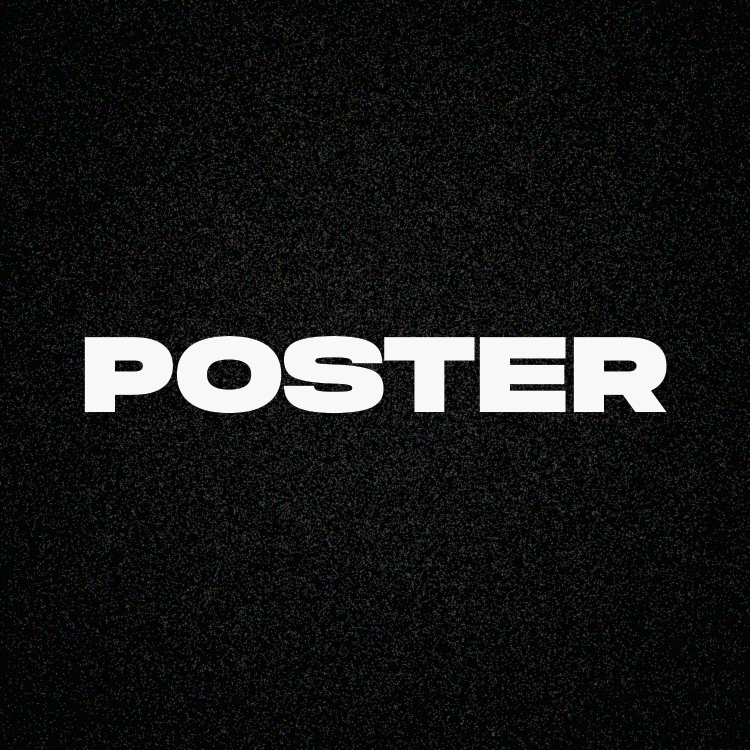
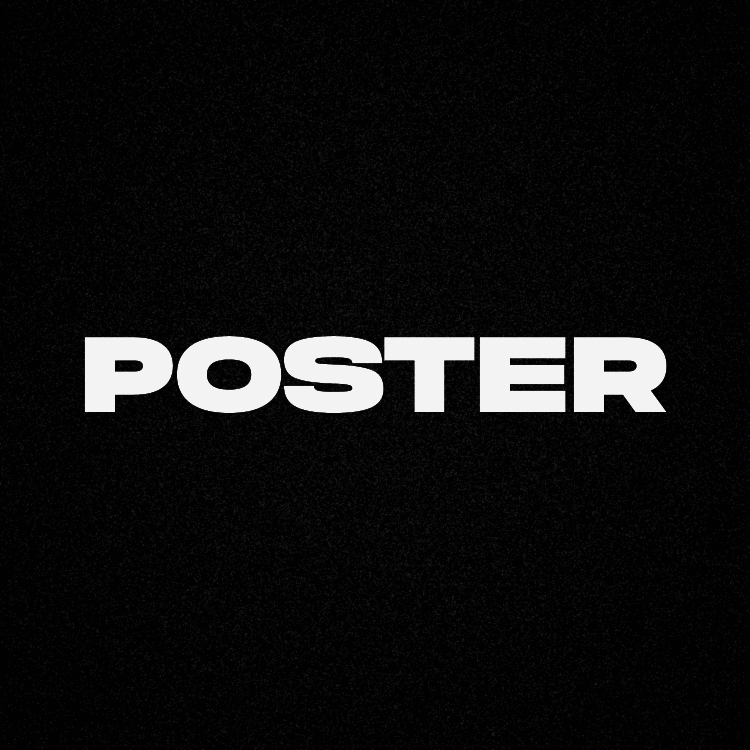
Refine branding size, double camera flash and About video framing

diff --git a/assets/css/brand-motion.css b/assets/css/brand-motion.css
@@ -2,7 +2,9 @@
 /* Animated identity, with stable navigation geometry. */
 @font-face { font-family:"Embolism Spark"; src:url("../fonts-web/embolism-spark.ttf") format("truetype"); font-weight:400; font-style:normal; font-display:swap; }
 .brand-logo { display:block; line-height:0; }
-body > header #anim-logo-h { width:134px; height:auto; scale:1; }
+.footer-identity .brand-logo img { width:120px; }
+@media(max-width:768px) { .footer-identity .brand-logo img { width:104px; } }
+body > header #anim-logo-h { width:112px; height:auto; scale:1; }
 body > header nav ul li a:has(.nav-label) { position:relative; }
 .nav-label { display:inline-block; transition:opacity .16s ease; }
 .nav-hover-label { position:absolute; left:50%; top:50%; transform:translate(-50%,-50%); width:max-content; pointer-events:none; opacity:0; font:400 25px/1 "Embolism Spark",cursive; text-transform:none; letter-spacing:0; transition:opacity .16s ease; }
@@ -10,7 +12,7 @@ body > header nav ul li a:has(.nav-label) { position:relative; }
  body > header nav ul li a:hover .nav-label { opacity:0; }
  body > header nav ul li a:hover .nav-hover-label { opacity:1; }
 }
-@media(max-width:768px) { body > header #anim-logo-h { width:116px; } }
+@media(max-width:768px) { body > header #anim-logo-h { width:96px; } }
 
 /* The camera light is entirely contained by the photograph's frame. */
 .hub-portrait-frame { display:block; position:relative; width:100%; height:100%; border-radius:22px; overflow:hidden; isolation:isolate; }
@@ -25,14 +27,21 @@ body > header nav ul li a:has(.nav-label) { position:relative; }
 .hub-links>a:nth-child(5) { --link-phase:-4.4s; }
 .hub-links>a:nth-child(6) { --link-phase:-5.5s; }
 @media(prefers-reduced-motion:no-preference) {
- .hub-profile-in-view .camera-flash { animation:camera-snap 6.8s ease-out infinite; }
+ .hub-profile-in-view .camera-flash { animation:camera-snap 1.5s linear infinite; }
  .hub-name-in-view .hub-name-accent { animation:hub-name-sheen 5s ease-in-out infinite,hub-heif-wiggle 3.6s ease-in-out infinite; transform-origin:50% 65%; }
  .hub-links-in-view>a::before { animation:hub-link-sweep 7s linear var(--link-phase,0s) infinite; }
  .hub-links-in-view>a>.ui-arrow,.hub-links-in-view .hub-featured-arrow .ui-arrow { animation:hub-arrow-flow 3.6s ease-in-out var(--link-phase,0s) infinite; }
  .hub-links-in-view .hub-icon { animation:hub-icon-float 4.5s ease-in-out var(--link-phase,0s) infinite; }
 }
 @keyframes hub-heif-wiggle { 0%,100%{transform:rotate(-2deg) translateY(0)} 25%{transform:rotate(1.5deg) translateY(-2px)} 50%{transform:rotate(-1deg) translateY(0)} 75%{transform:rotate(2deg) translateY(-1px)} }
-@keyframes camera-snap { 0%,76%,91%,100%{opacity:0;transform:translate(-50%,-50%) scale(.3)} 79%{opacity:.95;transform:translate(-50%,-50%) scale(.8)} 82%{opacity:.75;transform:translate(-50%,-50%) scale(1)} 90%{opacity:0;transform:translate(-50%,-50%) scale(1.2)} }
+@keyframes camera-snap {
+  0%,58%,100% { opacity:0; transform:translate(-50%,-50%) scale(.3); }
+  60% { opacity:.72; transform:translate(-50%,-50%) scale(.65); }
+  64%,68% { opacity:0; transform:translate(-50%,-50%) scale(.8); }
+  70% { opacity:1; transform:translate(-50%,-50%) scale(1); }
+  74% { opacity:.55; transform:translate(-50%,-50%) scale(1.1); }
+  86% { opacity:0; transform:translate(-50%,-50%) scale(1.3); }
+}
 @keyframes hub-link-sweep { from{transform:translateX(-130%)} to{transform:translateX(130%)} }
 @keyframes hub-arrow-flow { 0%,100%{transform:translate(0,0)} 50%{transform:translate(3px,-3px)} }
 @keyframes hub-icon-float { 0%,100%{transform:translateY(0)} 50%{transform:translateY(-2px)} }
@@ -44,8 +53,10 @@ body > header nav ul li a:has(.nav-label) { position:relative; }
 
 /* Never gate the page on videos or optional effects. CSS and JS both fail open. */
 .brand-loader { position:fixed; inset:0; z-index:100000; display:grid; place-items:center; background:#050906; opacity:0; visibility:hidden; pointer-events:none; transition:opacity .18s ease,visibility .18s; }
-.brand-loader picture { width:min(68vw,340px); display:block; }
+.brand-loader picture { width:min(42vw,200px); display:block; }
 .brand-loader img { display:block; width:100%; height:auto; }
 .brand-loading .brand-loader { opacity:1; visibility:visible; animation:brand-loader-timeout 1.8s step-end forwards; }
 @keyframes brand-loader-timeout { 0%{opacity:1;visibility:visible} 100%{opacity:0;visibility:hidden} }
 @media(prefers-reduced-motion:reduce) { .brand-loader { display:none; } }
+
+@media(max-width:768px) { .brand-loader picture { width:min(38vw,140px); } }

diff --git a/index.html b/index.html
@@ -41,7 +41,7 @@
   <link rel="canonical" href="https://heif.work/">
   <meta property="og:url" content="https://heif.work/">
   <link rel="stylesheet" href="assets/css/print.css?v=20261108-1" media="print">
-<link rel="stylesheet" href="assets/css/brand-motion.css?v=20261110-1">
+<link rel="stylesheet" href="assets/css/brand-motion.css?v=20261110-2">
 <link rel="preload" href="assets/fonts-web/embolism-spark.ttf" as="font" type="font/ttf" crossorigin>
 <script>document.documentElement.classList.add('brand-loading');setTimeout(function(){document.documentElement.classList.remove('brand-loading');},1800);</script>
 </head>
@@ -133,8 +133,8 @@
 
     <section class="portfolio-container mobile-pair-gallery" aria-label="Featured portfolio items">
       <div class="thumbnail">
-        <a href="work-detailposter.html"><img src="assets/optimized/category-poster-20261110-750.webp"
-            alt="Poster design portfolio showcase" loading="lazy" decoding="async" srcset="assets/optimized/category-poster-20261110-480.webp 480w, assets/optimized/category-poster-20261110-750.webp 750w" sizes="(max-width: 600px) 100vw, (max-width: 1024px) 50vw, 33vw" width="750" height="750" />
+        <a href="work-detailposter.html"><img src="assets/optimized/category-poster-20261110b-750.webp"
+            alt="Poster design portfolio showcase" loading="lazy" decoding="async" srcset="assets/optimized/category-poster-20261110b-480.webp 480w, assets/optimized/category-poster-20261110b-750.webp 750w" sizes="(max-width: 600px) 100vw, (max-width: 1024px) 50vw, 33vw" width="750" height="750" />
           <div class="caption">POSTER DESIGN</div>
         </a>
       </div>

diff --git a/work.html b/work.html
@@ -42,7 +42,7 @@
   <link rel="canonical" href="https://heif.work/work.html">
   <meta property="og:url" content="https://heif.work/work.html">
   <link rel="stylesheet" href="assets/css/print.css?v=20261108-1" media="print">
-<link rel="stylesheet" href="assets/css/brand-motion.css?v=20261110-1">
+<link rel="stylesheet" href="assets/css/brand-motion.css?v=20261110-2">
 <link rel="preload" href="assets/fonts-web/embolism-spark.ttf" as="font" type="font/ttf" crossorigin>
 <script>document.documentElement.classList.add('brand-loading');setTimeout(function(){document.documentElement.classList.remove('brand-loading');},1800);</script>
 </head>
@@ -90,8 +90,8 @@
             <h1 id="portfolio-heading" class="visually-hidden">Portfolio</h1>
             <div class="thumbnail">
                 <a href="work-detailposter.html">
-                    <img src="assets/optimized/category-poster-20261110-750.webp" alt="Poster Design Portfolio" loading="lazy"
-                        decoding="async" srcset="assets/optimized/category-poster-20261110-480.webp 480w, assets/optimized/category-poster-20261110-750.webp 750w" sizes="(max-width: 1024px) 50vw, 33vw" width="750" height="750">
+                    <img src="assets/optimized/category-poster-20261110b-750.webp" alt="Poster Design Portfolio" loading="lazy"
+                        decoding="async" srcset="assets/optimized/category-poster-20261110b-480.webp 480w, assets/optimized/category-poster-20261110b-750.webp 750w" sizes="(max-width: 1024px) 50vw, 33vw" width="750" height="750">
                     <div class="caption">POSTER DESIGN</div>
                 </a>
             </div>

diff --git a/about.html b/about.html
@@ -43,11 +43,13 @@
   <link rel="canonical" href="https://heif.work/about.html">
   <meta property="og:url" content="https://heif.work/about.html">
   <link rel="stylesheet" href="assets/css/print.css?v=20261108-1" media="print">
-<link rel="stylesheet" href="assets/css/brand-motion.css?v=20261110-1">
+<link rel="stylesheet" href="assets/css/brand-motion.css?v=20261110-2">
 <link rel="preload" href="assets/fonts-web/embolism-spark.ttf" as="font" type="font/ttf" crossorigin>
 <script>document.documentElement.classList.add('brand-loading');setTimeout(function(){document.documentElement.classList.remove('brand-loading');},1800);</script>
 <style>
-.about-video-frame { display:block; width:100%; overflow:hidden; border-radius:46% 46% 4% 4% / 30% 30% 4% 4%; clip-path:polygon(0 0,100% 0,100% 86%,84% 100%,0 100%); }
+.about-layout .about-portrait { max-width:380px; }
+@media(max-width:768px) { .about-layout .about-portrait { width:90%; max-width:300px; } }
+.about-video-frame { display:block; width:100%; overflow:hidden; border-radius:8px; clip-path:none; }
 .about-video-frame .about-profile-video { display:block; width:100%; height:auto; max-height:none; margin:0; border:0; border-radius:0; object-fit:contain; cursor:pointer; }
 .about-profile-video:focus-visible { outline:2px solid #1ec24d; outline-offset:-4px; }
 </style>

diff --git a/work-detailmanipulation.html b/work-detailmanipulation.html
@@ -43,7 +43,7 @@
   <link rel="canonical" href="https://heif.work/work-detailmanipulation.html">
   <meta property="og:url" content="https://heif.work/work-detailmanipulation.html">
   <link rel="stylesheet" href="assets/css/print.css?v=20261108-1" media="print">
-<link rel="stylesheet" href="assets/css/brand-motion.css?v=20261110-1">
+<link rel="stylesheet" href="assets/css/brand-motion.css?v=20261110-2">
 <link rel="preload" href="assets/fonts-web/embolism-spark.ttf" as="font" type="font/ttf" crossorigin>
 <script>document.documentElement.classList.add('brand-loading');setTimeout(function(){document.documentElement.classList.remove('brand-loading');},1800);</script>
 </head>

diff --git a/work-detailphotography.html b/work-detailphotography.html
@@ -32,7 +32,7 @@
   <link rel="canonical" href="https://heif.work/work-detailphotography.html">
   <meta property="og:url" content="https://heif.work/work-detailphotography.html">
   <link rel="stylesheet" href="assets/css/print.css?v=20261108-1" media="print">
-<link rel="stylesheet" href="assets/css/brand-motion.css?v=20261110-1">
+<link rel="stylesheet" href="assets/css/brand-motion.css?v=20261110-2">
 <link rel="preload" href="assets/fonts-web/embolism-spark.ttf" as="font" type="font/ttf" crossorigin>
 <script>document.documentElement.classList.add('brand-loading');setTimeout(function(){document.documentElement.classList.remove('brand-loading');},1800);</script>
 </head>

diff --git a/work-detailvideowork.html b/work-detailvideowork.html
@@ -44,7 +44,7 @@
   <link rel="canonical" href="https://heif.work/work-detailvideowork.html">
   <meta property="og:url" content="https://heif.work/work-detailvideowork.html">
   <link rel="stylesheet" href="assets/css/print.css?v=20261108-1" media="print">
-<link rel="stylesheet" href="assets/css/brand-motion.css?v=20261110-1">
+<link rel="stylesheet" href="assets/css/brand-motion.css?v=20261110-2">
 <link rel="preload" href="assets/fonts-web/embolism-spark.ttf" as="font" type="font/ttf" crossorigin>
 <script>document.documentElement.classList.add('brand-loading');setTimeout(function(){document.documentElement.classList.remove('brand-loading');},1800);</script>
 </head>

diff --git a/work-detailclothing.html b/work-detailclothing.html
@@ -42,7 +42,7 @@
   <link rel="canonical" href="https://heif.work/work-detailclothing.html">
   <meta property="og:url" content="https://heif.work/work-detailclothing.html">
   <link rel="stylesheet" href="assets/css/print.css?v=20261108-1" media="print">
-<link rel="stylesheet" href="assets/css/brand-motion.css?v=20261110-1">
+<link rel="stylesheet" href="assets/css/brand-motion.css?v=20261110-2">
 <link rel="preload" href="assets/fonts-web/embolism-spark.ttf" as="font" type="font/ttf" crossorigin>
 <script>document.documentElement.classList.add('brand-loading');setTimeout(function(){document.documentElement.classList.remove('brand-loading');},1800);</script>
 </head>

diff --git a/work-detailgraphics.html b/work-detailgraphics.html
@@ -42,7 +42,7 @@
   <link rel="canonical" href="https://heif.work/work-detailgraphics.html">
   <meta property="og:url" content="https://heif.work/work-detailgraphics.html">
   <link rel="stylesheet" href="assets/css/print.css?v=20261108-1" media="print">
-<link rel="stylesheet" href="assets/css/brand-motion.css?v=20261110-1">
+<link rel="stylesheet" href="assets/css/brand-motion.css?v=20261110-2">
 <link rel="preload" href="assets/fonts-web/embolism-spark.ttf" as="font" type="font/ttf" crossorigin>
 <script>document.documentElement.classList.add('brand-loading');setTimeout(function(){document.documentElement.classList.remove('brand-loading');},1800);</script>
 </head>

diff --git a/work-detailgrading.html b/work-detailgrading.html
@@ -42,7 +42,7 @@
   <link rel="canonical" href="https://heif.work/work-detailgrading.html">
   <meta property="og:url" content="https://heif.work/work-detailgrading.html">
   <link rel="stylesheet" href="assets/css/print.css?v=20261108-1" media="print">
-<link rel="stylesheet" href="assets/css/brand-motion.css?v=20261110-1">
+<link rel="stylesheet" href="assets/css/brand-motion.css?v=20261110-2">
 <link rel="preload" href="assets/fonts-web/embolism-spark.ttf" as="font" type="font/ttf" crossorigin>
 <script>document.documentElement.classList.add('brand-loading');setTimeout(function(){document.documentElement.classList.remove('brand-loading');},1800);</script>
 </head>

diff --git a/work-detailwedding.html b/work-detailwedding.html
@@ -43,7 +43,7 @@
   <link rel="canonical" href="https://heif.work/work-detailwedding.html">
   <meta property="og:url" content="https://heif.work/work-detailwedding.html">
   <link rel="stylesheet" href="assets/css/print.css?v=20261108-1" media="print">
-<link rel="stylesheet" href="assets/css/brand-motion.css?v=20261110-1">
+<link rel="stylesheet" href="assets/css/brand-motion.css?v=20261110-2">
 <link rel="preload" href="assets/fonts-web/embolism-spark.ttf" as="font" type="font/ttf" crossorigin>
 <script>document.documentElement.classList.add('brand-loading');setTimeout(function(){document.documentElement.classList.remove('brand-loading');},1800);</script>
 </head>

diff --git a/work-detailposter.html b/work-detailposter.html
@@ -44,7 +44,7 @@
   <link rel="canonical" href="https://heif.work/work-detailposter.html">
   <meta property="og:url" content="https://heif.work/work-detailposter.html">
   <link rel="stylesheet" href="assets/css/print.css?v=20261108-1" media="print">
-<link rel="stylesheet" href="assets/css/brand-motion.css?v=20261110-1">
+<link rel="stylesheet" href="assets/css/brand-motion.css?v=20261110-2">
 <link rel="preload" href="assets/fonts-web/embolism-spark.ttf" as="font" type="font/ttf" crossorigin>
 <script>document.documentElement.classList.add('brand-loading');setTimeout(function(){document.documentElement.classList.remove('brand-loading');},1800);</script>
 </head>
